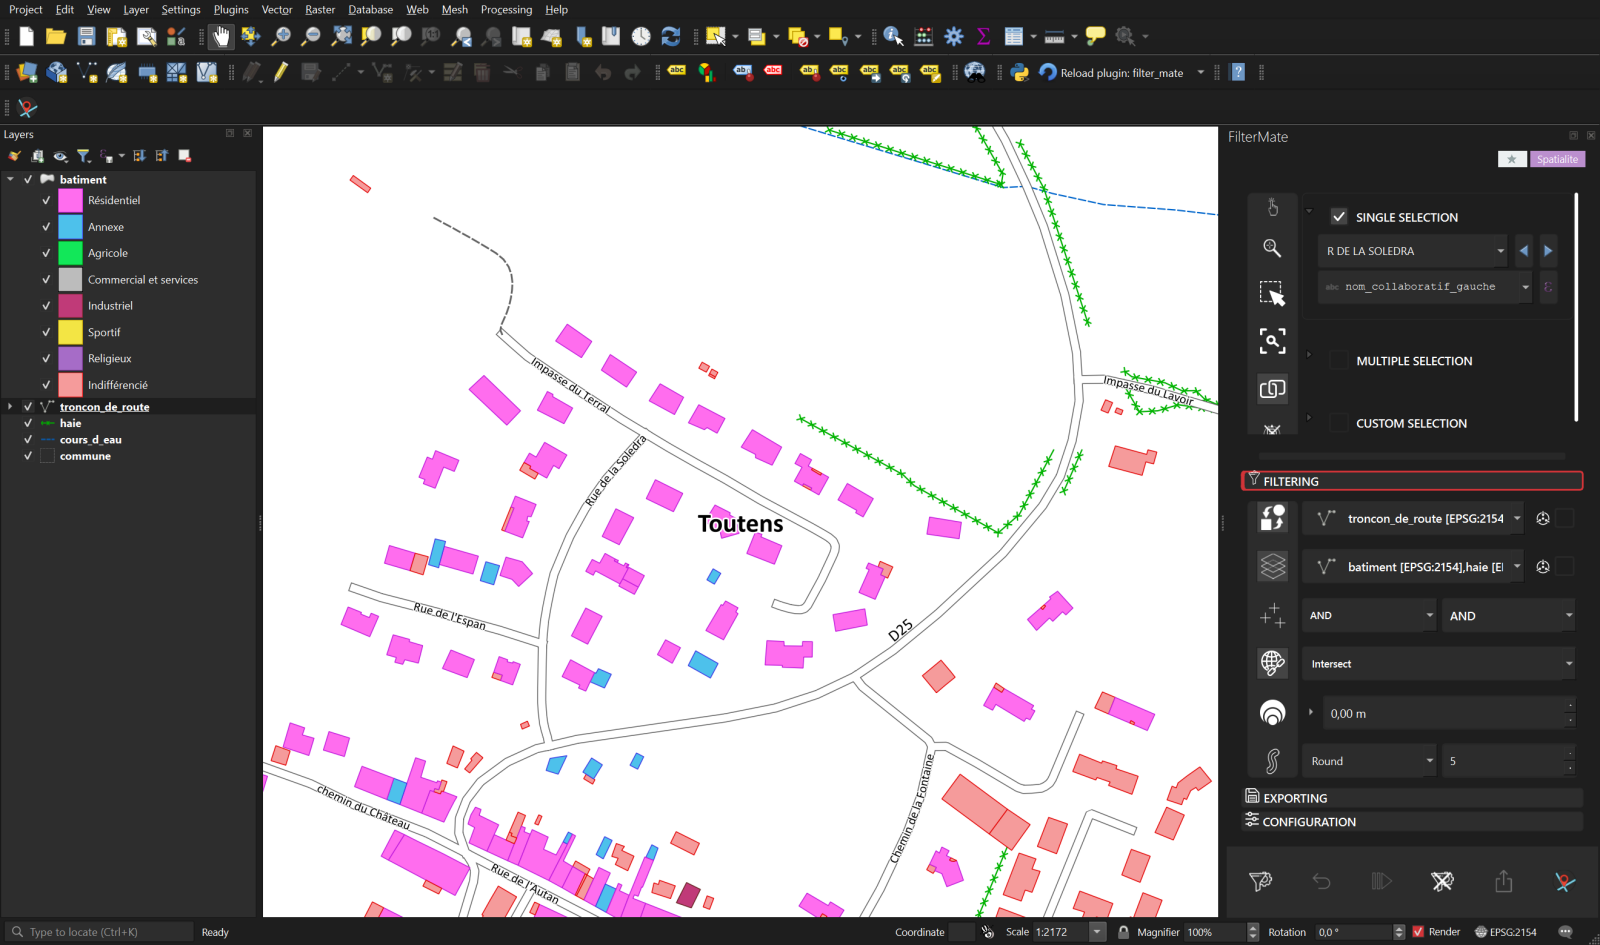
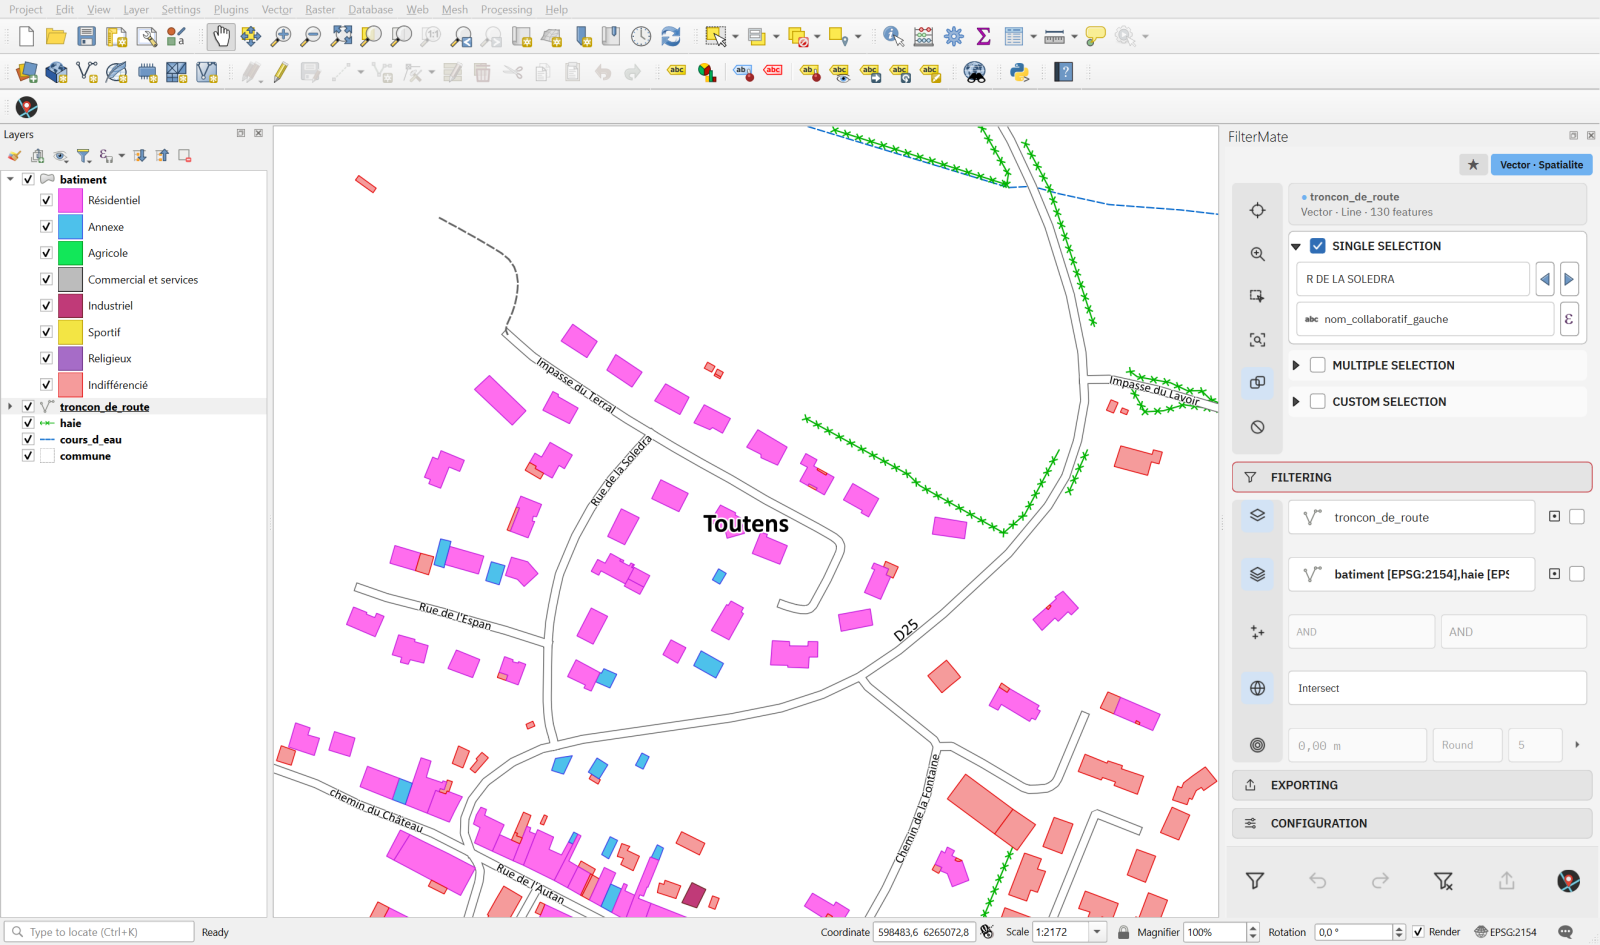
Website: guide screenshots of the FilterMate 5 panel, QGIS 4.2 on real data
Sections 2 to 12 and the tutorial showed the 4.9 panel (dark theme, old icons): they are
taken again with scripts/guide_screenshots.py and guide_tutorial_screenshots.py on the
BD TOPO extract. The FilterMate 5 dock images (filtering targets, export, configuration,
raster and point cloud EXPLORING) are taken on the LiDAR HD tile, the 1 m DTM and the
BD TOPO of Cerdagne instead of synthetic data. Section 3 describes the 5.0 header: the
favorites button, the kind · backend badge and the layer card.

diff --git a/website/guide.fr.html b/website/guide.fr.html
@@ -154,15 +154,15 @@
     <p>FilterMate est un panneau ancrable. Par défaut il s'ouvre à droite de la fenêtre QGIS et se déplace, se détache ou se redimensionne comme n'importe quel panneau QGIS.</p>
     <figure>
         <img src="img/guide/qgis-window.png" alt="QGIS 4.2 avec un petit projet BD TOPO et le panneau FilterMate ancré à droite" loading="lazy" width="1600" height="945">
-        <figcaption>QGIS 4.2 (thème sombre) avec le panneau FilterMate ancré à droite. Le projet contient cinq couches GeoPackage.</figcaption>
+        <figcaption>QGIS 4.2 avec le panneau FilterMate ancré à droite. Le projet contient cinq couches GeoPackage.</figcaption>
     </figure>
 
     <p>Le panneau se compose de quatre zones, de haut en bas :</p>
     <div class="table-wrap">
     <table>
         <tr><th>Zone</th><th>Rôle</th></tr>
-        <tr><td><strong>Badges d'en-tête</strong></td><td>Le badge <span class="badge" style="background:#f39c12;">&#9733; n</span> compte les favoris enregistrés et ouvre leur menu. Le badge coloré indique le backend qui gère la couche courante : <span class="badge" style="background:#58d68d;">PostgreSQL</span> <span class="badge" style="background:#bb8fce;">Spatialite</span> <span class="badge" style="background:#5dade2;">OGR</span> <span class="badge" style="background:#f0b27a;">Memory</span>.</td></tr>
-        <tr><td><strong>Zone Exploring</strong></td><td>Choix des entités de référence sur la couche courante : sélection simple, multiple ou par expression, plus une colonne de boutons de navigation.</td></tr>
+        <tr><td><strong>Badges d'en-tête</strong></td><td>Le bouton &#9733; ouvre le menu des favoris ; il passe à l'orange dès que des favoris sont enregistrés. Le badge coloré indique le type de la couche courante et ce qui la lit : le backend pour une couche vecteur (PostgreSQL, Spatialite, OGR, Memory), le fournisseur pour un raster ou un nuage de points. Par exemple <span class="badge" style="background:#6cb4ee;color:#141414;">Vector · Spatialite</span> <span class="badge" style="background:#f0b35a;color:#141414;">Raster · GDAL</span> <span class="badge" style="background:#5ad6a5;color:#141414;">Point cloud · COPC</span>.</td></tr>
+        <tr><td><strong>Zone Exploring</strong></td><td>Sélection sur la couche courante, décrite par la fiche en haut de la zone. Pour une couche vecteur : sélection simple, multiple ou par expression, plus une colonne de boutons de navigation. Les rasters et les nuages de points ont leurs propres outils (<a href="#raster-lidar">section 13</a>).</td></tr>
         <tr><td><strong>Onglets d'outils</strong></td><td>Trois onglets repliables : <strong>Filtering</strong>, <strong>Exporting</strong> et <strong>Configuration</strong>. Un seul est ouvert à la fois.</td></tr>
         <tr><td><strong>Barre d'actions</strong></td><td>Les six boutons qui agissent réellement : Filter, Undo, Redo, Unfilter, Export, About.</td></tr>
     </table>
@@ -175,8 +175,8 @@
         </figure>
         <div>
             <figure>
-                <img src="img/guide/header-badges.png" alt="Badges favoris et backend dans l'en-tête du panneau" loading="lazy" width="614" height="42">
-                <figcaption>En-tête : 4 favoris enregistrés, couche courante gérée par le backend Spatialite.</figcaption>
+                <img src="img/guide/header-badges.png" alt="Badges favoris et backend dans l'en-tête du panneau" loading="lazy" width="614" height="48">
+                <figcaption>En-tête : le bouton des favoris et la couche courante, une couche vecteur lue par le backend Spatialite.</figcaption>
             </figure>
             <figure>
                 <img src="img/guide/action-bar.png" alt="La barre d'actions avec Filter, Undo, Redo, Unfilter, Export et About" loading="lazy" width="614" height="119">
@@ -209,7 +209,7 @@
 
     <h3>Sélection simple</h3>
     <figure class="narrow">
-        <img src="img/guide/exploring-single.png" alt="Sélection simple avec une route choisie par son nom" loading="lazy" width="596" height="452">
+        <img src="img/guide/exploring-single.png" alt="Sélection simple avec une route choisie par son nom" loading="lazy" width="596" height="449">
         <figcaption>Sélection simple sur une couche de routes : l'entité est choisie par son nom, le champ en dessous définit l'attribut affiché.</figcaption>
     </figure>
     <p>
@@ -220,7 +220,7 @@
 
     <h3>Sélection multiple</h3>
     <figure class="narrow">
-        <img src="img/guide/exploring-multiple.png" alt="Sélection multiple avec quatre routes cochées" loading="lazy" width="596" height="452">
+        <img src="img/guide/exploring-multiple.png" alt="Sélection multiple avec quatre routes cochées" loading="lazy" width="596" height="449">
         <figcaption>Sélection multiple : quatre routes sont cochées. La ligne au-dessus de la liste résume la sélection ; le champ de texte filtre la liste au fil de la saisie.</figcaption>
     </figure>
     <p>
@@ -230,7 +230,7 @@
 
     <h3>Sélection personnalisée (expression)</h3>
     <figure class="narrow">
-        <img src="img/guide/exploring-custom.png" alt="Sélection personnalisée avec une expression QGIS" loading="lazy" width="596" height="452">
+        <img src="img/guide/exploring-custom.png" alt="Sélection personnalisée avec une expression QGIS" loading="lazy" width="596" height="449">
         <figcaption>Sélection personnalisée : n'importe quelle expression QGIS, ici les routes d'importance 3 ou 4.</figcaption>
     </figure>
     <p>
@@ -266,7 +266,7 @@
         <p class="credit">BD TOPO® 3.5 © IGN, Grenade.</p>
     </div>
     <figure class="narrow">
-        <img src="img/guide/filtering-tab.png" alt="L'onglet Filtering avec couches cibles, prédicat et tampon définis" loading="lazy" width="590" height="620">
+        <img src="img/guide/filtering-tab.png" alt="L'onglet Filtering avec couches cibles, prédicat et tampon définis" loading="lazy" width="590" height="617">
         <figcaption>Onglet Filtering : couche source, deux couches cibles, opérateurs de combinaison, prédicat Intersect, tampon rond de 50 m.</figcaption>
     </figure>
     <p>
@@ -468,7 +468,7 @@ AND ST_Intersects("geom",
         <p class="credit">BD TOPO® 3.5 © IGN, Saint-Gaudens.</p>
     </div>
     <figure class="narrow">
-        <img src="img/guide/export-tab.png" alt="L'onglet Exporting" loading="lazy" width="590" height="620">
+        <img src="img/guide/export-tab.png" alt="L'onglet Exporting" loading="lazy" width="590" height="617">
         <figcaption>Onglet Exporting : couches, CRS, format de style, format de sortie, dossier de sortie avec mode batch, ZIP.</figcaption>
     </figure>
     <p>
@@ -501,7 +501,7 @@ AND ST_Intersects("geom",
 <section id="configuration">
     <h2><span class="num">10</span>Configuration</h2>
     <figure class="narrow">
-        <img src="img/guide/configuration-tab.png" alt="L'onglet Configuration avec l'arbre des réglages" loading="lazy" width="590" height="620">
+        <img src="img/guide/configuration-tab.png" alt="L'onglet Configuration avec l'arbre des réglages" loading="lazy" width="590" height="617">
         <figcaption>Onglet Configuration : un arbre de réglages, modifiés sur place. Les changements sont enregistrés immédiatement.</figcaption>
     </figure>
     <p>

diff --git a/website/guide.html b/website/guide.html
@@ -155,15 +155,15 @@
     <p>FilterMate is a dock panel. By default it opens on the right side of the QGIS window and can be moved, floated or resized like any other QGIS panel.</p>
     <figure>
         <img src="img/guide/qgis-window.png" alt="QGIS 4.2 with a small BD TOPO project and the FilterMate panel docked on the right" loading="lazy" width="1600" height="945">
-        <figcaption>QGIS 4.2 (dark theme) with the FilterMate panel docked on the right. The project holds five GeoPackage layers.</figcaption>
+        <figcaption>QGIS 4.2 with the FilterMate panel docked on the right. The project holds five GeoPackage layers.</figcaption>
     </figure>
 
     <p>The panel is made of four areas, from top to bottom:</p>
     <div class="table-wrap">
     <table>
         <tr><th>Area</th><th>What it does</th></tr>
-        <tr><td><strong>Header badges</strong></td><td>The <span class="badge" style="background:#f39c12;">&#9733; n</span> badge counts saved favorites and opens the favorites menu. The colored badge shows which backend handles the current layer: <span class="badge" style="background:#58d68d;">PostgreSQL</span> <span class="badge" style="background:#bb8fce;">Spatialite</span> <span class="badge" style="background:#5dade2;">OGR</span> <span class="badge" style="background:#f0b27a;">Memory</span>.</td></tr>
-        <tr><td><strong>Exploring zone</strong></td><td>Pick the reference features on the current layer: single, multiple or expression-based selection, plus a vertical rail of navigation buttons.</td></tr>
+        <tr><td><strong>Header badges</strong></td><td>The &#9733; button opens the favorites menu; it turns amber once favorites are saved. The colored badge shows the kind of the current layer and what reads it: the backend for a vector layer (PostgreSQL, Spatialite, OGR, Memory), the provider for a raster or a point cloud. For example <span class="badge" style="background:#6cb4ee;color:#141414;">Vector · Spatialite</span> <span class="badge" style="background:#f0b35a;color:#141414;">Raster · GDAL</span> <span class="badge" style="background:#5ad6a5;color:#141414;">Point cloud · COPC</span>.</td></tr>
+        <tr><td><strong>Exploring zone</strong></td><td>Select on the current layer, described by the card at the top. For a vector layer: single, multiple or expression-based selection, plus a vertical rail of navigation buttons. Rasters and point clouds get their own tools (<a href="#raster-lidar">section 13</a>).</td></tr>
         <tr><td><strong>Tool tabs</strong></td><td>Three collapsible tabs: <strong>Filtering</strong>, <strong>Exporting</strong> and <strong>Configuration</strong>. Only one is open at a time.</td></tr>
         <tr><td><strong>Action bar</strong></td><td>The six buttons that actually do something: Filter, Undo, Redo, Unfilter, Export, About.</td></tr>
     </table>
@@ -176,8 +176,8 @@
         </figure>
         <div>
             <figure>
-                <img src="img/guide/header-badges.png" alt="Favorites and backend badges in the panel header" loading="lazy" width="614" height="42">
-                <figcaption>Header: 4 favorites saved, current layer handled by the Spatialite backend.</figcaption>
+                <img src="img/guide/header-badges.png" alt="Favorites and backend badges in the panel header" loading="lazy" width="614" height="48">
+                <figcaption>Header: the favorites button and the current layer, a vector layer read by the Spatialite backend.</figcaption>
             </figure>
             <figure>
                 <img src="img/guide/action-bar.png" alt="The action bar with Filter, Undo, Redo, Unfilter, Export and About" loading="lazy" width="614" height="119">
@@ -210,7 +210,7 @@
 
     <h3>Single selection</h3>
     <figure class="narrow">
-        <img src="img/guide/exploring-single.png" alt="Single selection mode with a road picked by name" loading="lazy" width="596" height="452">
+        <img src="img/guide/exploring-single.png" alt="Single selection mode with a road picked by name" loading="lazy" width="596" height="449">
         <figcaption>Single selection on a road layer: the feature is picked by name, the field below sets which attribute is displayed.</figcaption>
     </figure>
     <p>
@@ -221,7 +221,7 @@
 
     <h3>Multiple selection</h3>
     <figure class="narrow">
-        <img src="img/guide/exploring-multiple.png" alt="Multiple selection with four roads checked" loading="lazy" width="596" height="452">
+        <img src="img/guide/exploring-multiple.png" alt="Multiple selection with four roads checked" loading="lazy" width="596" height="449">
         <figcaption>Multiple selection: four roads are checked. The line above the list summarises the selection; the text box filters the list as you type.</figcaption>
     </figure>
     <p>
@@ -231,7 +231,7 @@
 
     <h3>Custom selection (expression)</h3>
     <figure class="narrow">
-        <img src="img/guide/exploring-custom.png" alt="Custom selection with a QGIS expression" loading="lazy" width="596" height="452">
+        <img src="img/guide/exploring-custom.png" alt="Custom selection with a QGIS expression" loading="lazy" width="596" height="449">
         <figcaption>Custom selection: any QGIS expression, here roads whose importance is 3 or 4.</figcaption>
     </figure>
     <p>
@@ -267,7 +267,7 @@
         <p class="credit">BD TOPO® 3.5 © IGN, Grenade.</p>
     </div>
     <figure class="narrow">
-        <img src="img/guide/filtering-tab.png" alt="The Filtering tab with target layers, predicate and buffer set" loading="lazy" width="590" height="620">
+        <img src="img/guide/filtering-tab.png" alt="The Filtering tab with target layers, predicate and buffer set" loading="lazy" width="590" height="617">
         <figcaption>Filtering tab: source layer, two target layers, combine operators, Intersect predicate, 50 m round buffer.</figcaption>
     </figure>
     <p>
@@ -469,7 +469,7 @@ AND ST_Intersects("geom",
         <p class="credit">BD TOPO® 3.5 © IGN, Saint-Gaudens.</p>
     </div>
     <figure class="narrow">
-        <img src="img/guide/export-tab.png" alt="The Exporting tab" loading="lazy" width="590" height="620">
+        <img src="img/guide/export-tab.png" alt="The Exporting tab" loading="lazy" width="590" height="617">
         <figcaption>Exporting tab: layers, CRS, style format, output format, output folder with batch mode, ZIP.</figcaption>
     </figure>
     <p>
@@ -502,7 +502,7 @@ AND ST_Intersects("geom",
 <section id="configuration">
     <h2><span class="num">10</span>Configuration</h2>
     <figure class="narrow">
-        <img src="img/guide/configuration-tab.png" alt="The Configuration tab showing the settings tree" loading="lazy" width="590" height="620">
+        <img src="img/guide/configuration-tab.png" alt="The Configuration tab showing the settings tree" loading="lazy" width="590" height="617">
         <figcaption>Configuration tab: a tree of settings, edited in place. Changes are saved immediately.</figcaption>
     </figure>
     <p>
